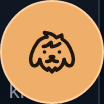
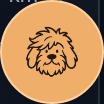
Match the original car proportions and use the supplied Einstein artwork

diff --git a/web/src/CatalogChat.tsx b/web/src/CatalogChat.tsx
@@ -225,13 +225,13 @@ export default function CatalogChat({ openRequest = 0 }: { openRequest?: number 
   return <section id="consultar" className={`chat-section${open && viewport.height < 360 ? ' chat-section--compact' : ''}`} aria-label="Asistente del catálogo" style={viewportStyle} onBlur={event => {
     if (isOpen.current && event.relatedTarget && !event.currentTarget.contains(event.relatedTarget as Node)) close(false);
   }}>
-    <button ref={toggle} type="button" className="chat-toggle" aria-label={open ? 'Plegar asistente' : 'Abrir asistente'} title={open ? 'Plegar asistente' : 'Abrir asistente'} aria-haspopup="dialog" aria-expanded={open} aria-controls="catalog-chat-panel" onClick={() => open ? close() : show()}><Icon name={open ? 'close' : 'dog'} className={open ? undefined : 'chat-dog'} /><span className="chat-launcher-label">Asistente</span></button>
+    <button ref={toggle} type="button" className="chat-toggle" aria-label={open ? 'Plegar asistente' : 'Abrir asistente'} title={open ? 'Plegar asistente' : 'Abrir asistente'} aria-haspopup="dialog" aria-expanded={open} aria-controls="catalog-chat-panel" onClick={() => open ? close() : show()}>{open ? <Icon name="close" /> : <span className="chat-dog" aria-hidden="true" />}<span className="chat-launcher-label">Asistente</span></button>
     <div id="catalog-chat-panel" className="chat-panel" hidden={!open} role="dialog" aria-modal="false" aria-labelledby="chat-panel-heading" onKeyDown={event => {
       if (event.key === 'Escape' && !event.nativeEvent.isComposing) { event.preventDefault(); event.stopPropagation(); close(); }
     }}>
       <div className="chat-panel-toolbar"><div><span className="eyebrow">CATÁLOGO DE 2023</span><h2 id="chat-panel-heading" ref={panelHeading} tabIndex={-1}>Einstein, asistente del catálogo</h2></div><button type="button" className="chat-close" aria-label="Cerrar asistente" title="Cerrar asistente" onClick={() => close()}><Icon name="close" /></button></div>
       <div className="chat-panel-body" ref={scrollArea}>
-      <div className="chat-intro"><span className="chat-avatar"><Icon name="dog" className="chat-dog" /></span><div><strong>Einstein</strong><p>Uso el clasificador original y reglas de búsqueda. Puedes indicar marca, modelo, provincia, combustible, cambio, año, precio, km, CV, cilindrada y marchas.</p></div></div>
+      <div className="chat-intro"><span className="chat-avatar" aria-hidden="true"><span className="chat-dog" /></span><div><strong>Einstein</strong><p>Uso el clasificador original y reglas de búsqueda. Puedes indicar marca, modelo, provincia, combustible, cambio, año, precio, km, CV, cilindrada y marchas.</p></div></div>
       <div className="chat-examples" aria-label="Ejemplos de consulta">{examples.map(example => <button key={example} type="button" disabled={!catalog || phase !== null} onClick={() => fillExample(example)}>{example}<Icon name="arrow" /></button>)}</div>
       {catalogError ? <div className="chat-catalog-error" role="alert"><p>No hemos podido cargar el catálogo de consulta. {catalogError}</p><button type="button" className="secondary-button" onClick={() => setCatalogAttempt(value => value + 1)}>Reintentar catálogo de consulta</button></div>
         : !catalog && <p role="status" className="chat-loading">Preparando las marcas, modelos y provincias…</p>}

diff --git a/web/src/chat.css b/web/src/chat.css
@@ -1,7 +1,14 @@
 .chat-section { position: fixed; inset: 0; z-index: 40; pointer-events: none; }
 .chat-toggle { position: fixed; right: calc(var(--chat-right-gap, 0px) + max(16px, env(safe-area-inset-right))); bottom: calc(var(--chat-bottom-gap, 0px) + max(16px, env(safe-area-inset-bottom))); display: inline-flex; align-items: center; justify-content: center; gap: 10px; min-width: 52px; min-height: 52px; max-width: calc(var(--chat-visible-width, 100vw) - max(16px, env(safe-area-inset-right)) - max(16px, env(safe-area-inset-left))); padding: 12px 18px; border: 1px solid #ffd1a1; border-radius: 999px; background: var(--accent); color: #21170e; font-size: 13px; font-weight: 650; box-shadow: 0 8px 28px #0006; pointer-events: auto; }
 .chat-toggle .icon { width: 23px; height: 23px; }
-.chat-toggle .chat-dog, .chat-avatar .chat-dog { width: 26px; height: 26px; }
+.chat-dog {
+  display: block;
+  flex: none;
+  width: 28px;
+  height: 28px;
+  background-color: currentColor;
+  mask: url('./assets/einstein.png?no-inline') center / contain no-repeat;
+}
 .chat-toggle:hover { background: var(--accent-light); }
 .chat-panel { position: fixed; right: calc(var(--chat-right-gap, 0px) + max(16px, env(safe-area-inset-right))); bottom: calc(var(--chat-bottom-gap, 0px) + max(16px, env(safe-area-inset-bottom)) + 64px); display: flex; flex-direction: column; width: min(420px, calc(var(--chat-visible-width, 100vw) - max(16px, env(safe-area-inset-right)) - max(16px, env(safe-area-inset-left)))); height: min(680px, max(0px, calc(var(--chat-visible-height, 100dvh) - max(16px, env(safe-area-inset-bottom)) - 96px))); border: 1px solid #566275; border-radius: 16px; background: var(--surface); box-shadow: 0 20px 70px #0009; overflow: hidden; pointer-events: auto; }
 .chat-panel[hidden] { display: none; }

diff --git a/web/src/Icon.tsx b/web/src/Icon.tsx
@@ -1,12 +1,8 @@
 import type { ReactNode } from 'react';
 
-export type IconName = 'arrow' | 'car' | 'check' | 'info' | 'github' | 'clock' | 'database' | 'chevron' | 'reset' | 'sliders' | 'dog' | 'close';
+export type IconName = 'arrow' | 'car' | 'check' | 'info' | 'github' | 'clock' | 'database' | 'chevron' | 'reset' | 'sliders' | 'message' | 'close';
 const paths: Record<IconName, ReactNode> = {
-  dog: <>
-    <path d="M5 8c1-1.7 2.7-2.7 4.8-2.9L8.5 3c2.5.2 4.4 1.1 5.5 2.4l2.5-1.2.2 1.9A7 7 0 0 1 19 8c1.9 2.6 3.4 6.7 2.6 9-.8 2.4-3.4 1.4-4-1.5M5 8c-1.9 2.6-3.4 6.7-2.6 9 .8 2.4 3.4 1.4 4-1.5" />
-    <path d="M6.4 15.5c.4 2.7 2.1 4.3 3.5 4.9l.6-1 1.5 1.8 1.5-1.8.6 1c1.4-.6 3.1-2.2 3.5-4.9M8 9.5c1.4-.1 2.6-.9 3.6-2l.2 2.1c1.6-.1 2.9-.7 3.8-1.5M8.5 12h.1m6.8 0h.1m-3.5 3c-.5 1.1-1.4 1.5-2.5 1.4m2.5-1.4c.5 1.1 1.4 1.5 2.5 1.4" />
-    <ellipse cx="12" cy="14.3" rx="1.6" ry="1" fill="currentColor" stroke="none" />
-  </>,
+  message: <path d="M21 11.5a8.4 8.4 0 0 1-.9 3.8 8.5 8.5 0 0 1-7.6 4.7 8.4 8.4 0 0 1-3.8-.9L3 21l1.9-5.7a8.4 8.4 0 0 1-.9-3.8 8.5 8.5 0 0 1 4.7-7.6 8.4 8.4 0 0 1 3.8-.9h.5a8.5 8.5 0 0 1 8 8v.5Z" />,
   close: <path d="m6 6 12 12M6 18 18 6" />,
   arrow: <><path d="M4 12h15M13 5l7 7-7 7" /></>,
   car: <><path d="m4 10 2-5h12l2 5M3 10h18v8H3zM6 18v2M18 18v2M6 14h2M16 14h2" /></>,

diff --git a/web/src/styles.css b/web/src/styles.css
@@ -49,9 +49,9 @@ h1, h2, h3, p { margin-top: 0; }
 .brand-car {
   display: block;
   min-width: 0;
-  width: 3.6em;
+  width: 2.15em;
   height: auto;
-  margin-inline-start: -.44em;
+  margin-inline-start: -.37em;
   overflow: hidden;
 }
 nav { display: flex; flex-wrap: wrap; align-items: center; max-width: 100%; gap: 34px; color: var(--muted); font-size: 13px; font-weight: 550; }

diff --git a/docs/plan-diseno-regreso-al-futuro.md b/docs/plan-diseno-regreso-al-futuro.md
@@ -44,6 +44,6 @@ La cabecera final escala la palabra, el coche y su empalme de forma conjunta. El
 
 ## Ajuste tras la revisión de la Preview
 
-El recorte del DeLorean quedaba entre 6,7 y 8,6 px por debajo de la línea base de PADDOCK. El grupo alinea ahora el borde inferior del recorte con esa línea a los cinco anchos comprobados. Conserva el ancho del coche y el solapamiento de la estela con la K. [Cabecera anterior](evidence/ux/regreso-al-futuro/antes-marca-1440.png) · [Escritorio ajustado](evidence/ux/regreso-al-futuro/despues-marca-1440.png) · [Móvil ajustado](evidence/ux/regreso-al-futuro/despues-marca-390.png).
+El recorte del DeLorean quedaba entre 6,7 y 8,6 px por debajo de la línea base de PADDOCK. Ahora el borde inferior coincide con esa línea a los cinco anchos comprobados. La escala toma como referencia el PNG del TFM. El techo del coche queda por debajo de la parte alta de la K y la primera estela entra en el hueco entre sus brazos. [Logo del TFM](../images/logo.png) · [Cabecera anterior](evidence/ux/regreso-al-futuro/antes-marca-1440.png) · [Escritorio ajustado](evidence/ux/regreso-al-futuro/despues-marca-1440.png) · [Móvil ajustado](evidence/ux/regreso-al-futuro/despues-marca-390.png).
 
-El botón cerrado y el avatar del chat usan un dibujo vectorial original inspirado en Einstein. La referencia generada por IA se simplificó a un contorno de orejas caídas, flequillo despeinado y nariz ancha. El SVG funciona en los dos colores de la interfaz y se revisó a 26 px. El botón conserva el nombre accesible, el área táctil de 52 px y la devolución del foco al cerrar con Escape. [Botón del asistente](evidence/ux/regreso-al-futuro/einstein-boton.png) · [Avatar](evidence/ux/regreso-al-futuro/einstein-avatar.png).
+El botón cerrado y el avatar del chat usan la silueta de la ilustración adjunta. Se recuperó el trazo con una edición de color guiada por la imagen y se exportó su máscara a un PNG de 104 px. La interfaz muestra esa máscara a 28 px y la tiñe con el color de cada superficie. El botón conserva el nombre accesible, el área táctil de 52 px y la devolución del foco al cerrar con Escape. [Botón del asistente](evidence/ux/regreso-al-futuro/einstein-boton.png) · [Avatar](evidence/ux/regreso-al-futuro/einstein-avatar.png).
